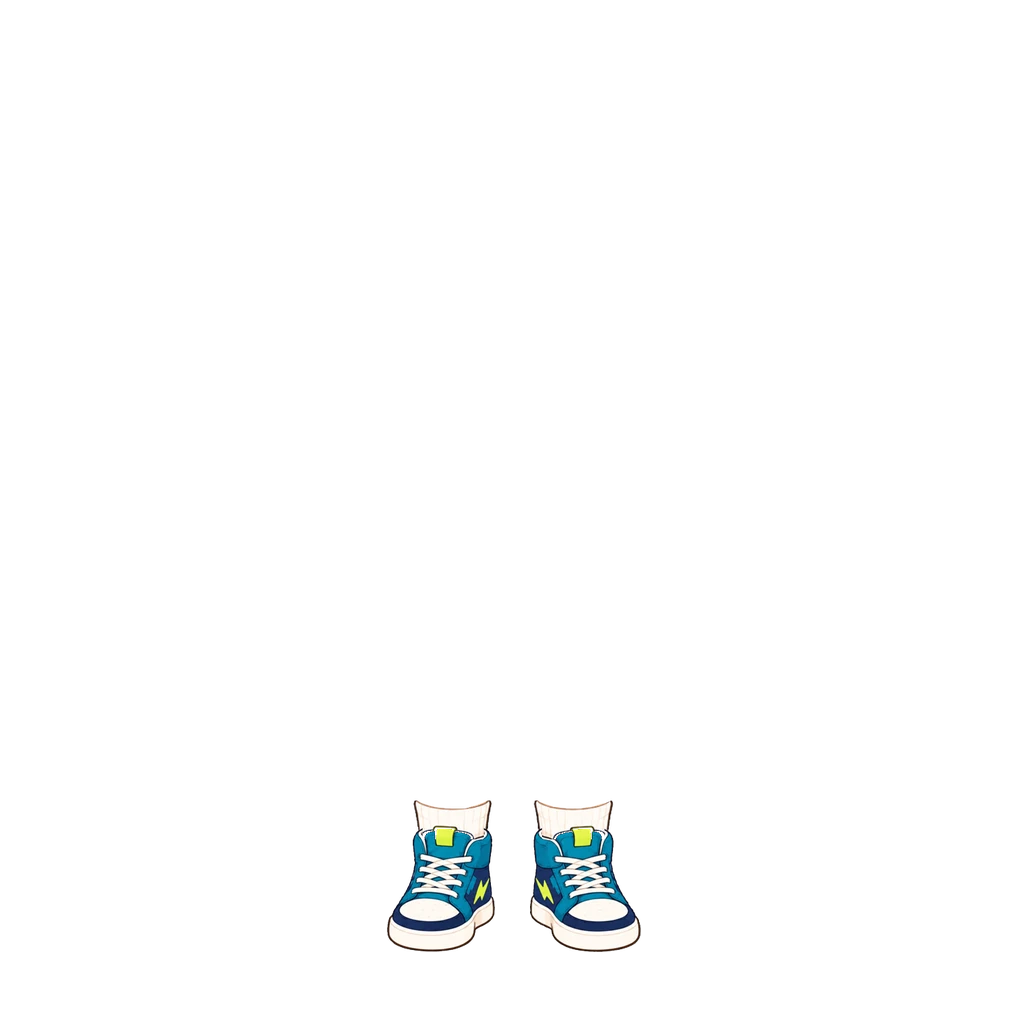
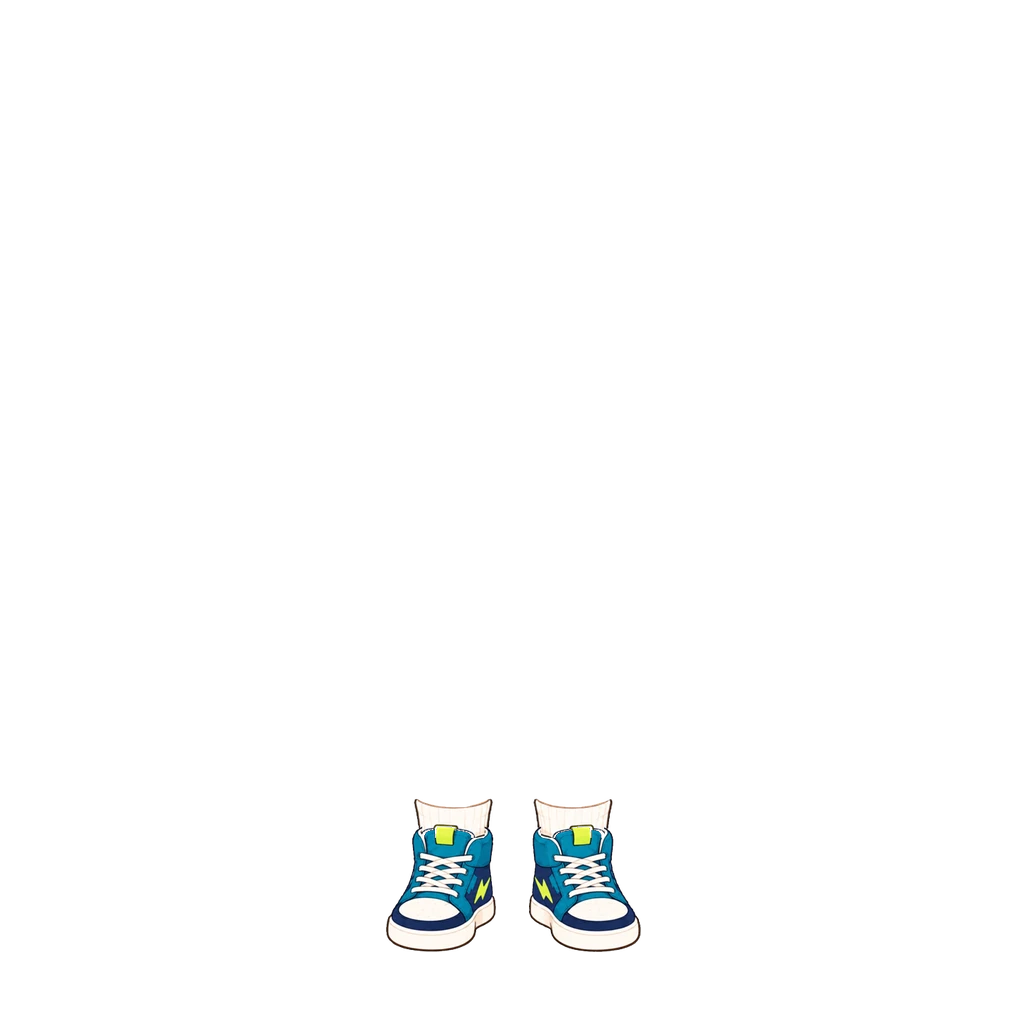
번개 운동화(남아): 운동화만 1% 크게, 양말 그대로 (#850)
신발 배율 0.70→0.707, 양말은 원화 대비 배율을 1.1218 로 낮춰 화면 크기를 유지. img ?v=6.

Claude-Session: https://claude.ai/code/session_018maNuYqDfFyRSe9uKpZhPR

Changed region(s): [[0.375, 0.7812, 0.625, 0.9062]]

diff --git a/src/data/avatarEquipment.js b/src/data/avatarEquipment.js
@@ -414,8 +414,9 @@ export const AVATAR_CATALOG = [
      신발 밑에 다시 끼웠다(신발 목 흰 테두리는 제외). 신발 크기·위치는 그대로. 탑재 상자 (389,801,639,952). img ?v=2.
      [2026-10-03] 양쪽 양말 10% 더 크게(원화 대비 1.133배, 원화에서 다시 만듦). 탑재 상자 (389,798,639,952). img ?v=3.
      [2026-10-03] 양말 위쪽 양옆에 원래 양말 테두리(검은 선)가 남던 것을 정리 — 양말 폭을 줄마다 따로 잡아 떼어냈다. img ?v=4.
-     [2026-10-03] 화면 왼쪽 짝 왼쪽으로 2(+2)·오른쪽 짝 오른쪽으로 2(−2). img ?v=5. */
-  { id: "shoes_lightning", slot: "shoes", label: "번개 운동화",   emoji: "⚡", price:DECOR_PRICE.common, rarity: "common", theme: "common", forGender: "boy", img: "assets/avatar/shoes/lightning-sneakers-boy.webp?v=5", thumb: "assets/avatar/thumb/shoes_lightning.webp" },
+     [2026-10-03] 화면 왼쪽 짝 왼쪽으로 2(+2)·오른쪽 짝 오른쪽으로 2(−2). img ?v=5.
+     [2026-10-03] 운동화만 1% 크게(배율 0.707), 양말은 크기 그대로 두려고 원화 대비 양말 배율을 1.133/1.01=1.1218 로 다시 만들었다. img ?v=6. */
+  { id: "shoes_lightning", slot: "shoes", label: "번개 운동화",   emoji: "⚡", price:DECOR_PRICE.common, rarity: "common", theme: "common", forGender: "boy", img: "assets/avatar/shoes/lightning-sneakers-boy.webp?v=6", thumb: "assets/avatar/thumb/shoes_lightning.webp" },
   /* 썸머 샌들 [2026-10-03] — 남아. 주황 띠 샌들(청록 밑창), 발까지 그려진 원화 352×148. 썸머 웨이브 옷과 짝.
      원화에 발이 그려져 있어 아바타 맨발을 샌들 속 발로 다 덮게 맞췄다. 두 짝을 따로 잘라(짝마다 위아래 딱 맞게)
      원화 뒤끈 가운데(왼짝 x90.5 · 오른짝 x58.5)를 남아 다리 가운데(x450.5 · x574.5)에, 배율 0.74, 왼짝 +2·오른짝 −2,
